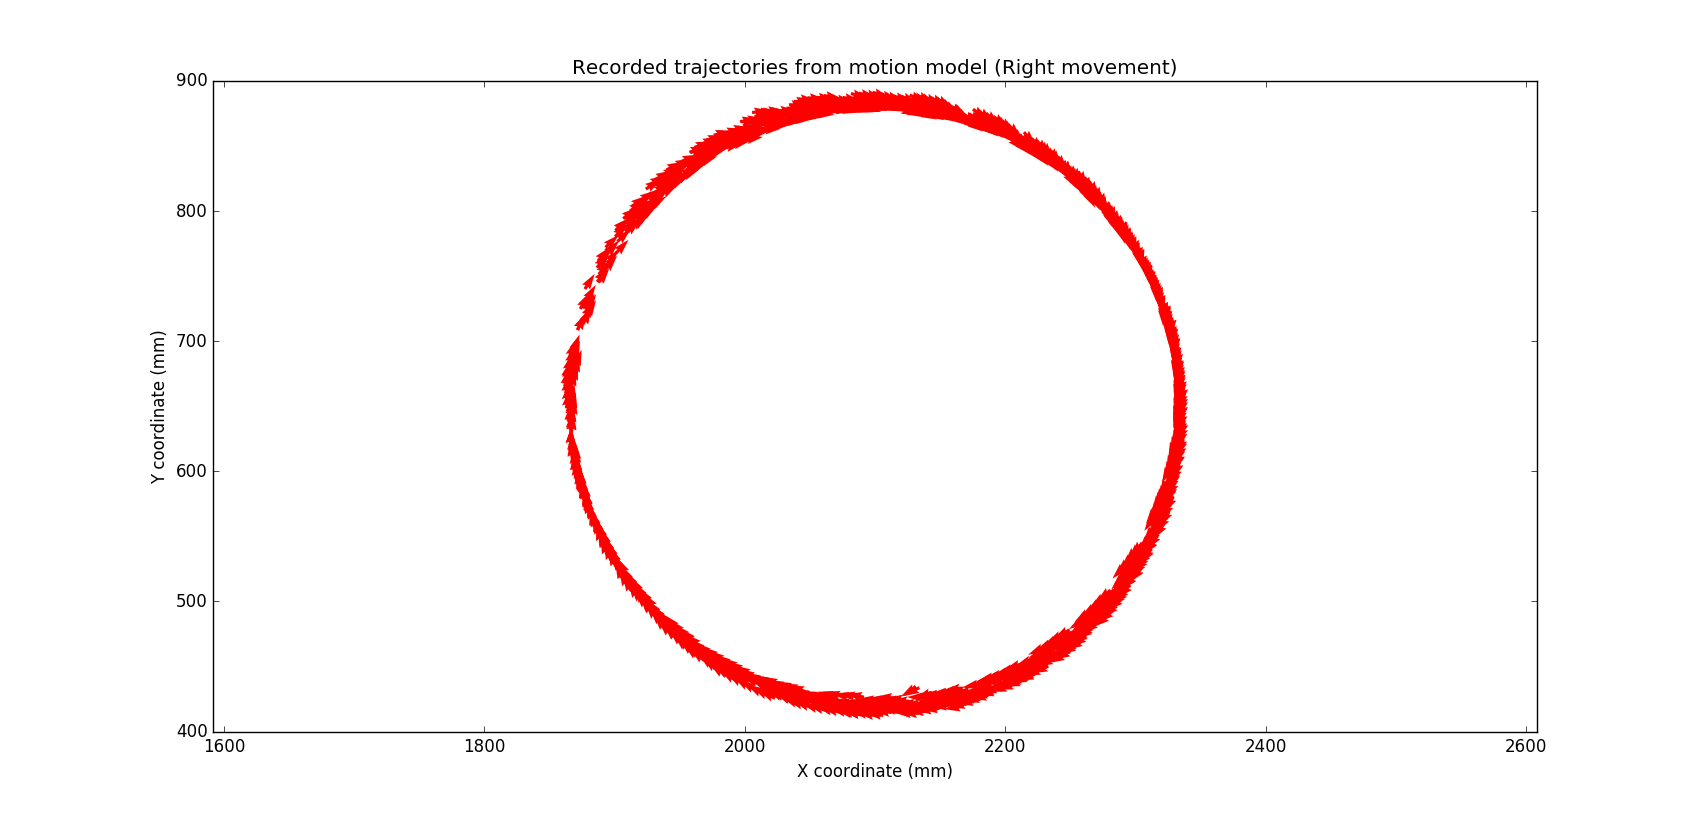
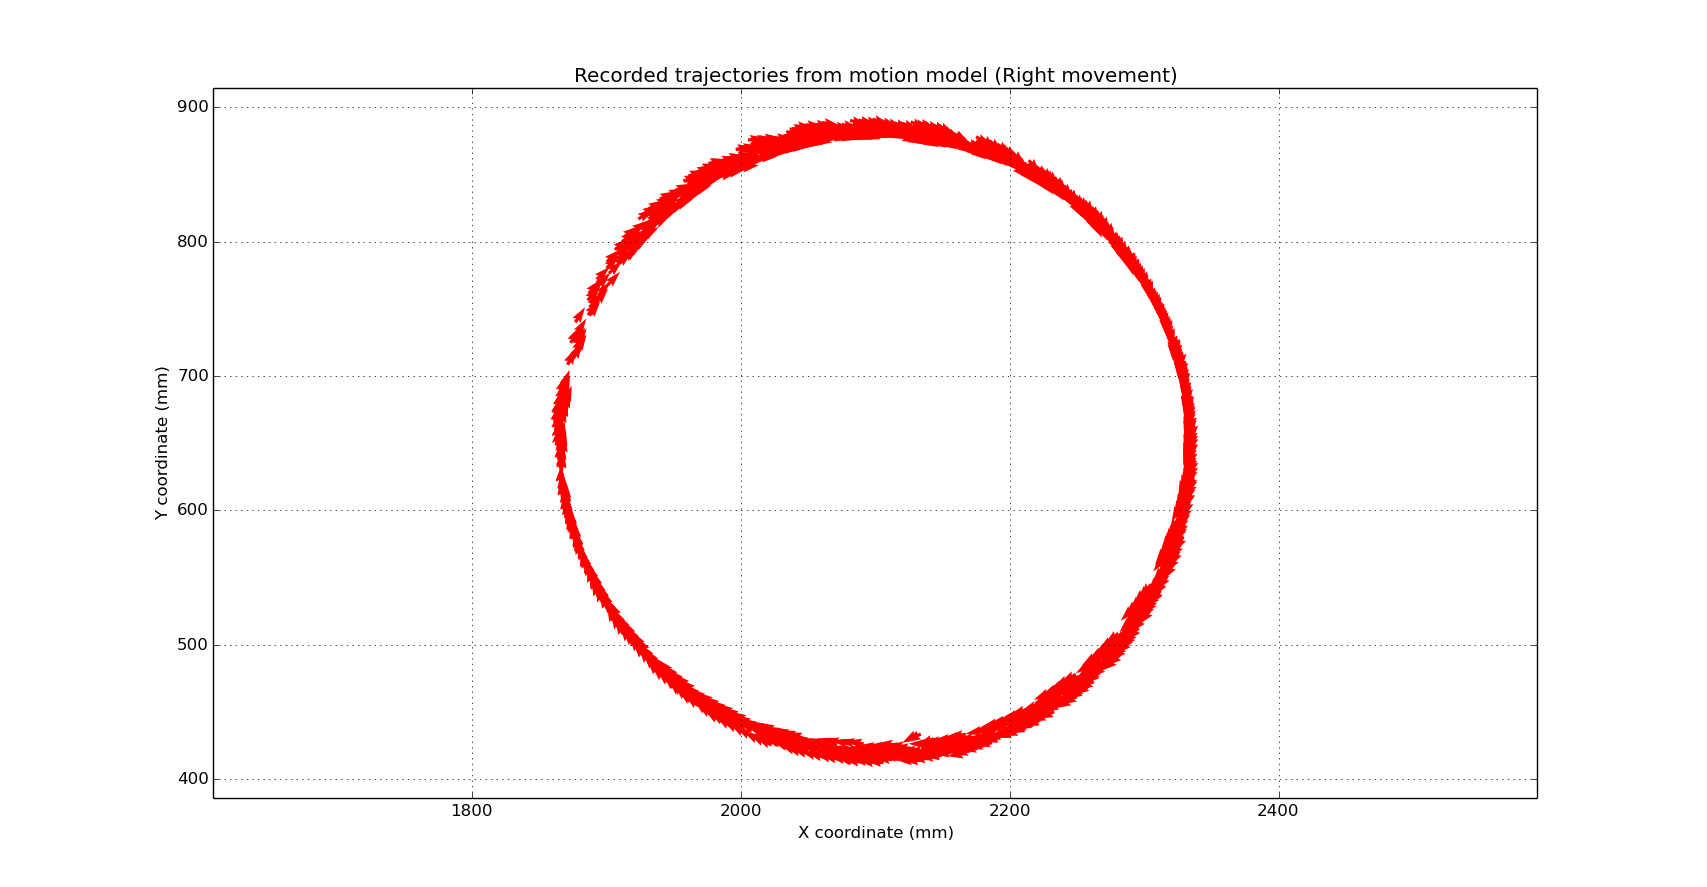
update raw data plots with grids

diff --git a/SEE_BachHa_MinhNguyen_141116.tex b/SEE_BachHa_MinhNguyen_141116.tex
@@ -152,7 +152,7 @@
             \item In all experiments, the recording process was started only when the robot is moving. The recording is stopped a little before the robot stop. This help eliminate the recording of robot location when it is not moving.  
         \end{itemize}
 
-    \begin{figure}[h!]
+    \begin{figure}[H]
         \begin{center}
             \setlength{\fboxsep}{0.5pt} %
             \setlength{\fboxrule}{0.5pt}
@@ -161,7 +161,7 @@
         \end{center}
     \end{figure}
 
-    \begin{figure}[h!]
+    \begin{figure}[H]
         \begin{center}
             \setlength{\fboxsep}{0.5pt} %
             \setlength{\fboxrule}{0.5pt}
@@ -170,7 +170,6 @@
         \end{center}
     \end{figure}
 
-\newpage
 \section{Motion Model Sampling}
     \begin{itemize}
         \item To perform the optimization, the whole recorded trajectories are divided into several smaller sequences.
@@ -180,7 +179,7 @@
         \item Plot of raw data can be seen in figure 4,5,6,7, and 8.
     \end{itemize}
 
-    \begin{figure}[h!]
+    \begin{figure}[H]
         \begin{center}
             \setlength{\fboxsep}{0.5pt} %
             \setlength{\fboxrule}{0.5pt}
@@ -190,7 +189,7 @@
         \end{center}
     \end{figure}
 
-    \begin{figure}[h!]
+    \begin{figure}[H]
         \begin{center}
             \setlength{\fboxsep}{0.5pt} %
             \setlength{\fboxrule}{0.5pt}
@@ -199,7 +198,7 @@
         \end{center}
     \end{figure}
 
-    \begin{figure}[h!]
+    \begin{figure}[H]
         \begin{center}
             \setlength{\fboxsep}{0.5pt} %
             \setlength{\fboxrule}{0.5pt}
@@ -208,16 +207,7 @@
         \end{center}
     \end{figure}
 
-    \begin{figure}[h!]
-        \begin{center}
-            \setlength{\fboxsep}{0.5pt} %
-            \setlength{\fboxrule}{0.5pt}
-            \includegraphics[width=\linewidth,fbox]{images/raw_slightLeft.png}
-            \caption{Sampled poses of the LeJOS robot going slight left.}
-        \end{center}
-    \end{figure}
-    
-    \begin{figure}[h!]
+    \begin{figure}[H]
         \begin{center}
             \setlength{\fboxsep}{0.5pt} %
             \setlength{\fboxrule}{0.5pt}
@@ -225,8 +215,17 @@
             \caption{Sampled poses of the LeJOS robot going right.}
         \end{center}
     \end{figure}
-    
-    \begin{figure}[h!]
+
+    \begin{figure}[H]
+        \begin{center}
+            \setlength{\fboxsep}{0.5pt} %
+            \setlength{\fboxrule}{0.5pt}
+            \includegraphics[width=\linewidth,fbox]{images/raw_slightLeft.png}
+            \caption{Sampled poses of the LeJOS robot going slight left.}
+        \end{center}
+    \end{figure}
+
+    \begin{figure}[H]
         \begin{center}
             \setlength{\fboxsep}{0.5pt} %
             \setlength{\fboxrule}{0.5pt}
@@ -235,7 +234,6 @@
         \end{center}
     \end{figure}
 
-    \newpage
     \subsection{Parameters calculation}
     \begin{itemize}
         \item Alphas are parameters of the velocity motion model introduced by Thrun \cite{Thrun}.
@@ -288,7 +286,6 @@
         \captionof{table}{Calculated parameters of the motion model}
     \end{figure}
 
-    \newpage
     The parameters are then used to sample poses and compare with observed data.
 
     \begin{figure}[H]
@@ -304,7 +301,7 @@
             \caption{Sampled poses of the LeJOS robot going straight.}
         \end{minipage}
     \end{figure}
-    
+
     \begin{figure}[H]
         \centering
         \begin{minipage}{0.5\textwidth}

diff --git a/python/aiciss/plot.py b/python/aiciss/plot.py
@@ -5,6 +5,7 @@ import matplotlib.pyplot as plt
 
 
 def main():
+    plt.figure()
     for i in range(1,len(sys.argv)):
         f = sys.argv[i]
         data = np.genfromtxt(f, usecols=(2,3,4))
@@ -18,10 +19,12 @@ def main():
         x_dir = np.cos(data_short[:,2])# + data[:,0]
         y_dir = np.sin(data_short[:,2])# + data[:,1]
         plt.quiver(data_short[:,0], data_short[:,1], x_dir, y_dir, color='red')
+        pass
     plt.ylabel("Y coordinate (mm)")
     plt.xlabel("X coordinate (mm)")
-    plt.title("Recorded trajectories from motion model (Straight movement)")
+    plt.title("Recorded trajectories from motion model (Right movement)")
     plt.axis('equal')
+    plt.grid()
     plt.show()
     pass
 
